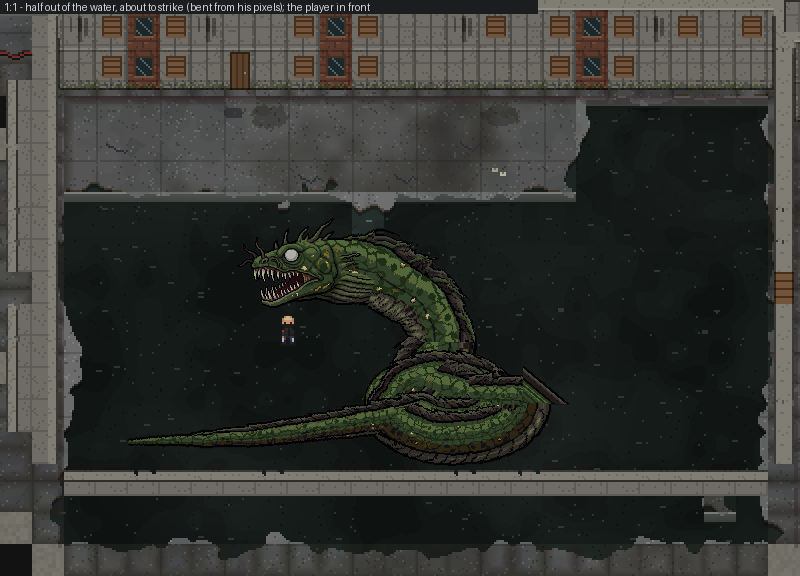
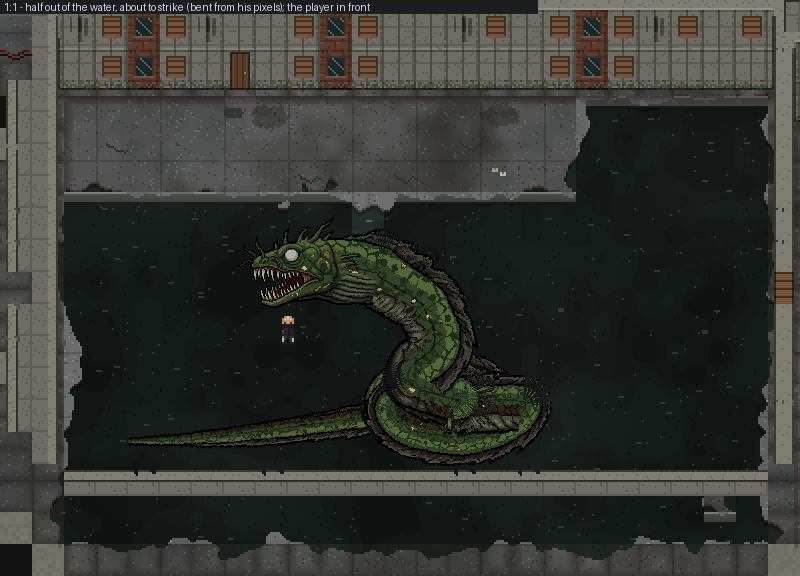
Eel poses: fix the coil and overlap bugs (paint along the spine, fin side kept, head-first depth, outline where it crosses itself)
- Painter rewritten: cross-section lines along the spine instead of a nearest-point test
  per pixel; the inside of a tight bend is thinned to its radius.
- Fin stays on one side of the travel direction (the screen-up flip tore a line across the
  neck); depth = nearer the head is in front; an outline on the body behind at a crossing.
- Strike pose: loops 25 px apart, a gentler neck. Two stress poses (figure-eight, hairpin).

Claude-Session: https://claude.ai/code/session_01JJL3emrHtazYD3rAoJR8Qe

Changed region(s): [[0.1562, 0.4062, 0.7188, 0.8125]]

diff --git a/ArtSource/bosses/eel_poses.py b/ArtSource/bosses/eel_poses.py
@@ -17,6 +17,7 @@ MASK = NATIVE[:, :, 3] > 0; SH, SW = MASK.shape
 # the stretches of his spine used for the body, as indices into the traced spine (found by looking at the trace: A the top trunk, B the
 # lower trunk, C the tail); HEAD is the cut-out and the spine point it grows from
 A, B, C = (0, 232), (362, 625), (690, 1085)
+OVERLAP_ARC = 45                              # two parts of the body this far apart along it are different passes when they touch on screen
 FADE = 10                                     # half the dithered cross-fade where his upper trunk meets the lower one
 HEAD_BOX = (28, 8, 152, 107)
 
@@ -43,11 +44,14 @@ def trace():
     pad = np.pad(P, ((k, k), (0, 0)), mode="edge"); Ps = np.stack([np.convolve(pad[:, i], np.ones(2 * k + 1) / (2 * k + 1), "valid") for i in (0, 1)], 1)
     return Ps
 
-def frames(P):
-    """tangent and the normal that points up the screen (right when vertical), per point"""
+def frames(P, screen_up=True):
+    """tangent and the back-side normal per point. screen_up: the normal that points up the screen (right when vertical) - for his own
+    near-horizontal trunks, where up is the fin side. Not for a pose: there the fin stays on the LEFT of the way the body goes, all the
+    way round (screen_up flips sides the moment the body heads straight down, tearing the texture along that line)"""
     T = np.gradient(P, axis=0); T /= np.linalg.norm(T, axis=1, keepdims=True) + 1e-9
     n = np.stack([T[:, 1], -T[:, 0]], 1)
-    flip = (n[:, 1] > 1e-3) | ((np.abs(n[:, 1]) <= 1e-3) & (n[:, 0] < 0)); n[flip] *= -1
+    if screen_up:
+        flip = (n[:, 1] > 1e-3) | ((np.abs(n[:, 1]) <= 1e-3) & (n[:, 0] < 0)); n[flip] *= -1
     return T, n
 
 SRC = trace(); SRC_T, SRC_N = frames(SRC)
@@ -85,28 +89,49 @@ def body_order(length):
 
 BAYER = np.array([[0, 8, 2, 10], [12, 4, 14, 6], [3, 11, 1, 9], [15, 7, 13, 5]]) / 16.0
 
-def paint(canvas, P, order, chunk=12, reach=48):
-    """bend the body along path P (head end first, 1 px apart): chunks back to front by height, so it coils over and under itself"""
-    n = len(P); T, U = frames(P); H, W = canvas.shape[:2]; order, order2, wmix = (np.array(x) for x in order)
-    ch = list(range(0, n, chunk)); ch.sort(key=lambda c: P[min(n - 1, c + chunk // 2)][1])
-    for c0 in ch:
-        c1 = min(n, c0 + chunk); lo, hi = max(0, c0 - 24), min(n, c1 + 24); seg = P[lo:hi]
-        x0, x1 = int(seg[:, 0].min()) - reach, int(seg[:, 0].max()) + reach; y0, y1 = int(seg[:, 1].min()) - reach, int(seg[:, 1].max()) + reach
-        x0, y0, x1, y1 = max(0, x0), max(0, y0), min(W, x1), min(H, y1)
-        if x1 <= x0 or y1 <= y0: continue
-        gy, gx = np.mgrid[y0:y1, x0:x1]; px = gx.ravel() + 0.5; py = gy.ravel() + 0.5
-        d2 = (px[:, None] - seg[None, :, 0]) ** 2 + (py[:, None] - seg[None, :, 1]) ** 2
-        j = np.argmin(d2, axis=1) + lo; own = (j >= c0) & (j < c1) & (d2.min(axis=1) < reach * reach)
-        v = (px - P[j, 0]) * U[j, 0] + (py - P[j, 1]) * U[j, 1]
-        along = (px - P[j, 0]) * T[j, 0] + (py - P[j, 1]) * T[j, 1]
-        own &= ~(((j == 0) & (along < -0.5)) | ((j == n - 1) & (along > 0.5)))        # nothing past the ends of the spine (it would smear the end column out)
-        jj = np.clip(j, 0, n - 1); k = np.where(BAYER[(py.astype(int)) % 4, (px.astype(int)) % 4] < wmix[jj], order2[jj], order[jj])
-        sx = SRC[k, 0] + SRC_N[k, 0] * v; sy = SRC[k, 1] + SRC_N[k, 1] * v
-        ix, iy = np.rint(sx).astype(int), np.rint(sy).astype(int)
-        ok = own & (ix >= 0) & (ix < SW) & (iy >= 0) & (iy < SH) & (v <= UP_EXT[k] + 1) & (-v <= DN_EXT[k] + 1)
-        ix, iy = np.where(ok, ix, 0), np.where(ok, iy, 0); ok &= NATIVE[iy, ix, 3] > 0
-        sel = np.nonzero(ok)[0]
-        canvas[py[sel].astype(int), px[sel].astype(int)] = NATIVE[iy[sel], ix[sel]]
+def paint(canvas, P, order, ds=0.35, dv=0.5):
+    """Bend the body along path P (head end first, 1 px apart) by painting ALONG the spine: every tiny step (ds px) lays down its own
+    cross-section line of his pixels (v from the belly side to the back side, dv apart). All the samples go through one depth test, and
+    the rule is the simplest that can't patch: the part of the body nearer the head is always in front of what comes after it, so where one
+    coil passes over another (or the neck over the loops) the same one is on top along the whole crossing. (Ordering by height instead put some
+    of a coil in front of the other and some behind: patches with straight edges. A nearest-spine-point test per pixel tore the texture
+    wherever the body bent tighter than it is thick.) On the inside of a tight bend the body is thinned to the bend's radius, so the cross-sections can't fold over each other."""
+    n = len(P); T, U = frames(P, screen_up=False); H, W = canvas.shape[:2]; order, order2, wmix = (np.array(x) for x in order)
+    dT = np.gradient(T, axis=0); curv = np.linalg.norm(dT, axis=1)                         # 1/radius
+    k9 = 5; curv = np.convolve(np.pad(curv, k9, mode="edge"), np.ones(2 * k9 + 1) / (2 * k9 + 1), "valid")
+    toward_up = (dT * U).sum(1)                                                            # > 0: the path curves toward the back side
+    rad = 1.0 / np.maximum(curv, 1e-3)
+    sel = np.arange(0.0, n - 1.0001, ds)
+    j0 = np.floor(sel).astype(int); f = (sel - j0)[:, None]; j1 = np.minimum(j0 + 1, n - 1)
+    pos = P[j0] * (1 - f) + P[j1] * f; nrm = U[j0] * (1 - f) + U[j1] * f; nrm /= np.linalg.norm(nrm, axis=1, keepdims=True) + 1e-9
+    kk = order[j0]; up = UP_EXT[kk] + 1.0; dn = DN_EXT[kk] + 1.0
+    r = rad[j0]; inner_up = toward_up[j0] > 0
+    up = np.where(inner_up, np.minimum(up, 0.85 * r), up); dn = np.where(~inner_up, np.minimum(dn, 0.85 * r), dn)       # thin the inside of a tight bend
+    vmax = int(np.ceil(max(up.max(), dn.max()) / dv)); vs = np.arange(-vmax, vmax + 1) * dv
+    vv = np.broadcast_to(vs[None, :], (len(sel), len(vs)))
+    okv = (vv <= up[:, None]) & (-vv <= dn[:, None])
+    ox = pos[:, None, 0] + nrm[:, None, 0] * vv; oy = pos[:, None, 1] + nrm[:, None, 1] * vv
+    ixo, iyo = np.floor(ox).astype(int), np.floor(oy).astype(int)
+    mix = BAYER[np.clip(iyo, 0, H - 1) % 4, np.clip(ixo, 0, W - 1) % 4] < wmix[j0][:, None]
+    k = np.where(mix, order2[j0][:, None], kk[:, None])
+    sx = SRC[k, 0] + SRC_N[k, 0] * vv; sy = SRC[k, 1] + SRC_N[k, 1] * vv
+    ix, iy = np.rint(sx).astype(int), np.rint(sy).astype(int)
+    ok = okv & (ixo >= 0) & (ixo < W) & (iyo >= 0) & (iyo < H) & (ix >= 0) & (ix < SW) & (iy >= 0) & (iy < SH)
+    ix, iy = np.where(ok, ix, 0), np.where(ok, iy, 0); ok &= NATIVE[iy, ix, 3] > 0
+    depth = np.broadcast_to((-sel)[:, None], ok.shape)                                          # the part nearer the head is always in front
+    m = ok.ravel(); idx = np.nonzero(m)[0]; idx = idx[np.argsort(depth.ravel()[idx], kind="stable")]  # far first, so the nearest is written last
+    canvas[iyo.ravel()[idx], ixo.ravel()[idx]] = NATIVE[iy.ravel()[idx], ix.ravel()[idx]]
+    # where one part of the body passes in front of another (their places along the body are far apart), the one behind gets a dark outline
+    # along the front one's edge, as any outline does: without it their textures butt together and read as a pasted patch
+    arc = np.full((H, W), -1.0); dep = np.full((H, W), -1e9)
+    arc[iyo.ravel()[idx], ixo.ravel()[idx]] = np.broadcast_to(sel[:, None], ok.shape).ravel()[idx]
+    dep[iyo.ravel()[idx], ixo.ravel()[idx]] = depth.ravel()[idx]
+    behind = np.zeros((H, W), bool)
+    for dy, dx in ((1, 0), (-1, 0), (0, 1), (0, -1)):
+        an = np.roll(np.roll(arc, dy, 0), dx, 1); dn_ = np.roll(np.roll(dep, dy, 0), dx, 1)
+        behind |= (arc >= 0) & (an >= 0) & (np.abs(arc - an) > OVERLAP_ARC) & (dn_ > dep + 0.05)
+    canvas[behind] = (20, 22, 23, 255)
+    paint.last_arc = arc                                                    # for debugging: where along the body each pixel came from
 
 def put_head(canvas, at, face):
     """paste the head so the body grows from `at` (a point on the path): face=-1 as drawn (looking left), +1 mirrored"""
@@ -145,8 +170,8 @@ if __name__ == "__main__":
     a.convert("RGB").save(os.path.join(out, "eel_ref_basin.png"))
     # 2. the strike: wrapped 1.5 times round a stand-in 3x3 platform, bent from his own pixels
     px0, py0 = tile(44, 34); pw = 3 * 32; cx, cy = px0 + pw / 2, py0 + pw / 2; rx, ry = pw / 2 + 36, pw / 2 + 31
-    ring = [(cx + math.cos(t) * (rx + t * 1.2), cy + math.sin(t) * (ry + t * 1.0)) for t in np.linspace(-0.35, -0.35 + 2 * math.pi * 1.5, 150)]
-    h0 = tile(47.3, 32.2); neck = lead(h0) + M.bez((h0[0] + LEAD, h0[1]), (h0[0] + LEAD + 14, h0[1] + 20), ring[0])[1:]
+    ring = [(cx + math.cos(t) * (rx + t * 4.0), cy + math.sin(t) * (ry + t * 3.4)) for t in np.linspace(-0.35, -0.35 + 2 * math.pi * 1.5, 150)]   # loops 25 px apart
+    h0 = tile(47.3, 32.2); neck = lead(h0) + M.bez((h0[0] + LEAD, h0[1]), (h0[0] + LEAD + 40, h0[1] + 6), ring[0])[1:]
     tail = M.bez(ring[-1], tile(41.5, 35.5), tile(37.5, 34.2), tile(36.2, 37.8), tile(40, 39.4), tile(48, 38.8))
     P = M.resample(neck + ring + tail[1:])
     lay = eel_layer(W, H, P, -1)
@@ -174,4 +199,11 @@ if __name__ == "__main__":
     sh = shadow(lay4); k = Bg.copy(); k.alpha_composite(man, tile(42, 28.0)); k.alpha_composite(Image.fromarray(sh))
     M.label(k, "1:1 - lurking: only its shadow under the black water (the player on the ledge)")
     k.convert("RGB").save(os.path.join(out, "eel_lurk_ref.png"))
+    # 5. the cases that broke it: the body crossing itself (a figure-eight) and a tight hairpin; looked at on every change
+    SW2, SH2 = 700, 420; flat = Image.new("RGBA", (SW2, SH2), (14, 20, 18, 255))
+    e0 = (150, 110); eight = lead(e0) + M.bez((e0[0] + LEAD, e0[1]), (260, 150), (330, 210), (420, 270), (480, 210), (420, 150), (330, 210), (240, 270), (190, 210), (240, 150), (330, 210), (400, 300), (520, 330))[1:]
+    h0_ = (120, 70); hairpin = lead(h0_) + M.bez((h0_[0] + LEAD, h0_[1]), (300, 75), (400, 110), (380, 170), (300, 185), (180, 180), (150, 230), (220, 280), (400, 285), (560, 260))[1:]
+    for name, path in (("eight", eight), ("hairpin", hairpin)):
+        t = flat.copy(); t.alpha_composite(Image.fromarray(eel_layer(SW2, SH2, M.resample(path), -1)))
+        t.resize((SW2 * 2, SH2 * 2), Image.NEAREST).convert("RGB").save(os.path.join(out, f"eel_stress_{name}.png"))
     print("written", out)

diff --git a/ArtSource/WORK_LOG.md b/ArtSource/WORK_LOG.md
@@ -4907,3 +4907,19 @@ Yan asked for a render of the brain floating round his enclosure with blinking e
   that's wrong. `thunderclap` is at half-pixels (full size would be 18 tiles across).
 - Harness: whirlpools asserted on all three flooded levels. ALL CHECKS PASSED. Not checked in Unity: how any of it looks and sounds next to the
   existing effects, how busy automatic explosions get, the ripples' cost when wading far.
+
+## The eel's coils: bugs where it bent tight or passed over itself, fixed (2026-11-05)
+
+- Yan: "eel bugs a lot when coilling up or when it's sprite passes over itself, can it be fixed?" (three screenshots: blocky bands and a patch
+  with straight edges). Four separate faults in `eel_poses.py`, found by zooming into my own renders at the same places:
+  1. **Torn texture on bends**: each pixel took the nearest spine point, so where the body bent tighter than it is thick (or two coils were
+     close) neighbouring pixels picked different spine points. Now the body is painted ALONG the spine: every 0.35 px step lays its own
+     cross-section line of his pixels; on the inside of a tight bend the body is thinned to the bend's radius so lines can't fold over.
+  2. **A hard line across the neck**: "back always up the screen" has to jump to the other side of the body the moment it heads straight
+     down. Now the fin stays on the left of the way the body goes, all the way round (the outside of a clockwise coil).
+  3. **Patches where it crosses itself**: order by height put some of a coil in front of another and some behind, and my strike pose's second
+     loop was only 7 px outside the first (the loops almost coincided, so any order flipped). Now the part nearer the head is always in
+     front, and the loops are 25 px apart. A dark outline is drawn on the body behind along the front one's edge.
+  4. **Streaks at a tight neck turn** (his thin fin spikes fanned out): a gentler neck curve.
+- Checked on: the strike (round a platform), the rear-up, the lurk, plus two stress poses now in the script: a figure-eight (crosses itself)
+  and a tight hairpin (`eel_stress_eight.png`, `eel_stress_hairpin.png`). Not checked in Unity (it isn't in the game yet).
